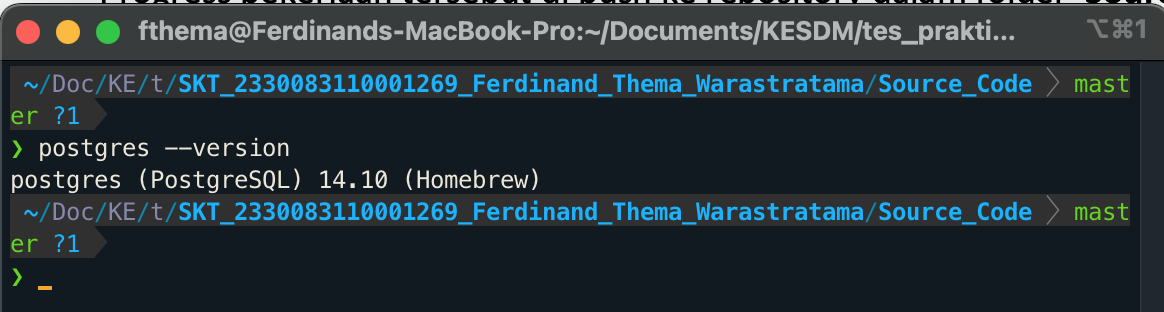
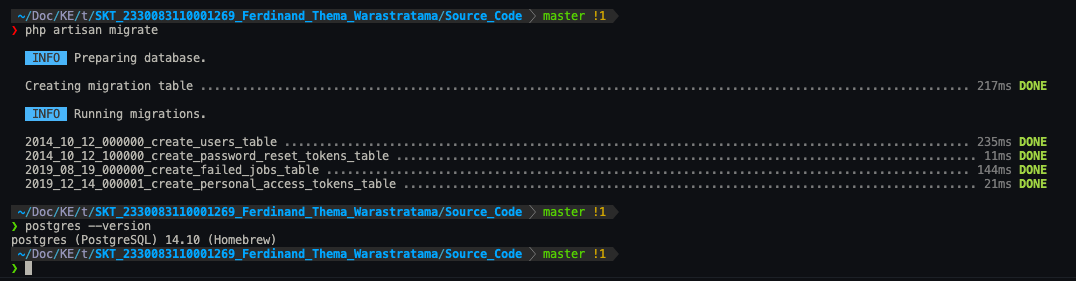
add screenshot Soal_4

diff --git a/Source_Code/config/database.php b/Source_Code/config/database.php
@@ -15,7 +15,7 @@ return [
     |
     */
 
-    'default' => env('DB_CONNECTION', 'mysql'),
+    'default' => env('DB_CONNECTION', 'pgsql'),
 
     /*
     |--------------------------------------------------------------------------
@@ -68,9 +68,9 @@ return [
             'url' => env('DATABASE_URL'),
             'host' => env('DB_HOST', '127.0.0.1'),
             'port' => env('DB_PORT', '5432'),
-            'database' => env('DB_DATABASE', 'forge'),
-            'username' => env('DB_USERNAME', 'forge'),
-            'password' => env('DB_PASSWORD', ''),
+            'database' => env('DB_DATABASE', 'esdm_db'),
+            'username' => env('DB_USERNAME', 'postgres'),
+            'password' => env('DB_PASSWORD', 'admin'),
             'charset' => 'utf8',
             'prefix' => '',
             'prefix_indexes' => true,
